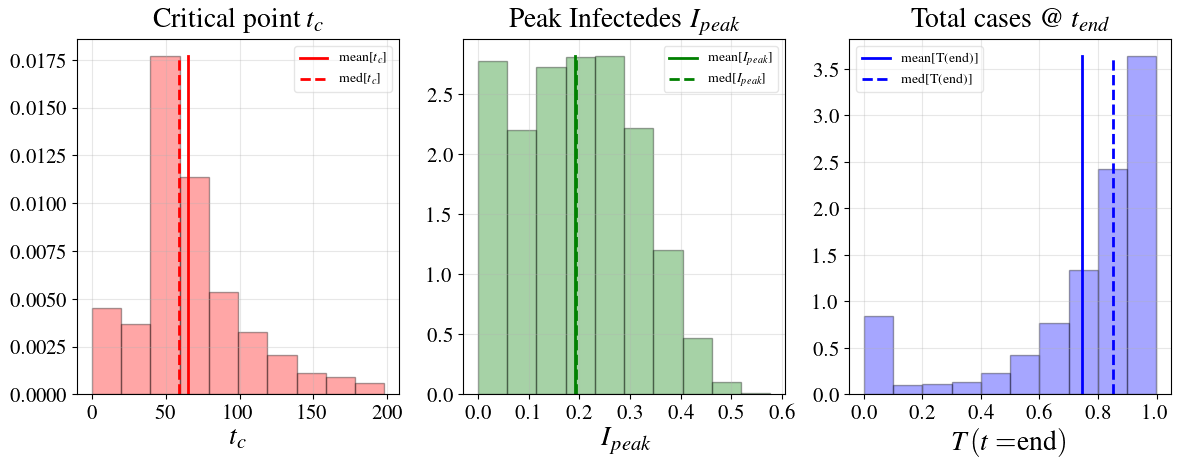
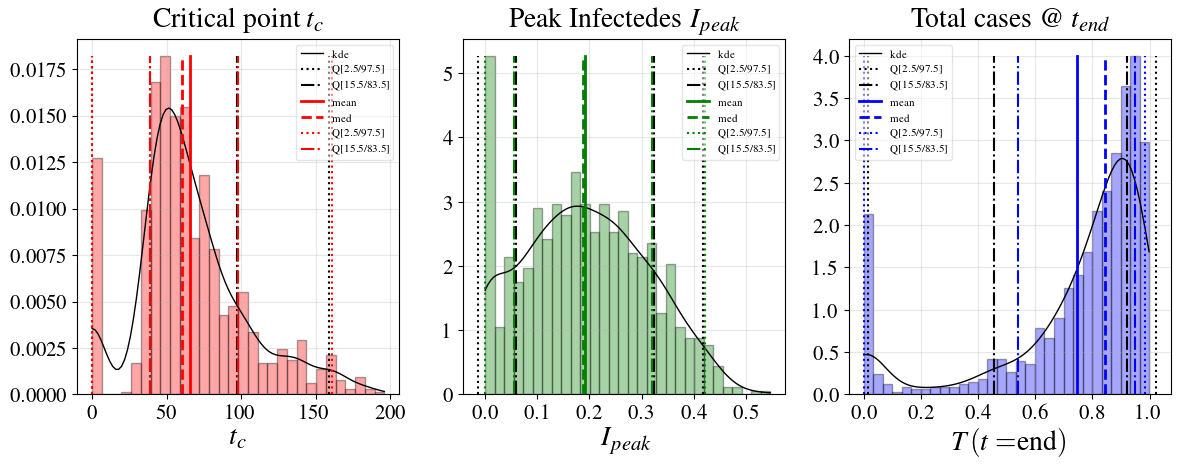
implememted hyperplane similarities to measure effect of params on outcomes

diff --git a/epimodels/plots.py b/epimodels/plots.py
@@ -18,6 +18,7 @@ rc('text', usetex=True)
 
 import statsmodels.api       as sm
 from statsmodels.formula.api import ols
+import pandas as pd
 from   epimodels.utils import *
 
 
@@ -282,44 +283,26 @@ def plotCriticalPointsStats(SIR_params, CO_samples, **kwargs):
         t_Ipeak = Ipeak_samples[:,0]
         t_Tend = Tend_samples[:,0]
 
-        # Masked tc point samples for 95% of outcomes
-        do_95 = 1
-        if do_95:
-            idx_tc       = np.nonzero(np.logical_and(t_tc > tc_kde_lower95, t_tc < tc_kde_upper95))
-            masked_tc    = t_tc[idx_tc]
-            idx_Ipeak    = np.nonzero(np.logical_and(t_Ipeak > Ipeak_kde_lower95, t_Ipeak < Ipeak_kde_upper95))
-            masked_Ipeak = t_Ipeak[idx_Ipeak]
-            idx_Tend     = np.nonzero(np.logical_and(t_Tend > Tend_kde_lower95, t_Tend < Tend_kde_upper95))
-            masked_Tend  = t_Tend[idx_Tend]
-        else:
-            # Masked tc point samples for 68% of outcomes
-            idx_tc       = np.nonzero(np.logical_and(t_tc > tc_kde_lower68, t_tc < tc_kde_upper68))
-            masked_tc    = t_tc[idx_tc]
-            idx_Ipeak    = np.nonzero(np.logical_and(t_Ipeak > Ipeak_kde_lower68, t_Ipeak < Ipeak_kde_upper68))
-            masked_Ipeak = t_Ipeak[idx_Ipeak]
-            idx_Tend     = np.nonzero(np.logical_and(t_Tend > Tend_kde_lower68, t_Tend < Tend_kde_upper68))
-            masked_Tend  = t_Tend[idx_Tend]
-        
-        # Contour plots of 2D gaussian kde Param distribution with R0 Samples
-        # Find regressive model
-        x = beta_samples; y = gamma_inv_samples; z = R0_samples
-        X = x.flatten()
-        Y = y.flatten()
-        Z = z.flatten()
-        data = pandas.DataFrame({'x': X, 'y': Y, 'z': Z})
-        # Fit the model
-        model = ols("z ~ x + y", data).fit()
-        # Print the summary
-        print(model.summary())
-        print("\nRetrieving manually the parameter estimates:")
-        print(model._results.params)
-
+        # Learn linear regressor between params and R0
+        from sklearn import linear_model
+        regr = linear_model.LinearRegression()
+        X = SIR_params; Y = R0_samples
+        regr.fit(X, Y)
+        dim, N = positions.shape
+        Y = np.empty([1,N])
+        for ii in range(N):
+            y_regr =  regr.predict([[positions[0,ii],positions[1,ii]]])
+            Y[0,ii]  = y_regr[0]
+        f_R0 = np.reshape(Y.T, xx.shape)
+        print('R0 Coeff:', regr.coef_, 'R0 Intercept:', regr.intercept_)
+        print('R0 min/max=',np.min(R0_samples), np.max(R0_samples))
 
         fig00, ax00 = plt.subplots()     
-        cset = ax00.contour(xx, yy, f, colors='k', alpha = 0.9)
+        cset = ax00.contour(xx, yy, f, colors='k', levels = 10, alpha = 0.75)
         ax00.clabel(cset, inline=1, fontsize=10)        
-        cax = ax00.scatter(beta_samples, gamma_inv_samples, c=R0_samples,  cmap='tab20c', alpha = 0.55, s= 10)
-        # cax = ax00.scatter(beta_samples, gamma_inv_samples, R0_samples, c=R0_samples,  cmap='bwr', s=5, alpha = 0.55)
+        cset = ax00.contour(xx, yy, f_R0, colors='k', levels = 10, alpha = 0.75)
+        ax00.clabel(cset, inline=1, fontsize=10)                
+        cax = ax00.scatter(beta_samples, gamma_inv_samples, c=R0_samples,  cmap='tab20c', alpha = 0.85, s= 10)
         ax00.set_xlabel(r"$\beta$", fontsize=20)
         ax00.set_ylabel(r"$\gamma^{-1}$", fontsize=20)
         for tick in ax00.xaxis.get_major_ticks():
@@ -329,8 +312,6 @@ def plotCriticalPointsStats(SIR_params, CO_samples, **kwargs):
         ax00.grid(True, alpha=0.3)
         ax00.set_title(r"Distribution of $\beta,\gamma^{-1}$ vs. $R_{0}$", fontsize=20)
         cbar = fig00.colorbar(cax, ax=ax00, orientation='vertical')
-        print('R0 min/max=',np.min(R0_samples), np.max(R0_samples))
-        num_intervals = int(np.ceil((np.max(R0_samples)-np.min(R0_samples))/0.15 ))
         cbarlabels = np.around(np.linspace(np.min(R0_samples), np.max(R0_samples), num = 20, endpoint=True),decimals=2)
         cbar.set_ticks(cbarlabels)
         cbar.set_ticklabels(cbarlabels)
@@ -338,10 +319,57 @@ def plotCriticalPointsStats(SIR_params, CO_samples, **kwargs):
         # fig00.tight_layout()
         fig00.set_size_inches(29/2 * 0.35, 9/2, forward=True)
 
+
+        # Masked point samples for 95% of outcomes
+        mask_type = '95'
+        if mask_type == '95':
+            do_95 = 1
+            idx_tc       = np.nonzero(np.logical_and(t_tc > tc_kde_lower95, t_tc < tc_kde_upper95))
+            masked_tc    = t_tc[idx_tc]
+            idx_Ipeak    = np.nonzero(np.logical_and(t_Ipeak > Ipeak_kde_lower95, t_Ipeak < Ipeak_kde_upper95))
+            masked_Ipeak = t_Ipeak[idx_Ipeak]
+            idx_Tend     = np.nonzero(np.logical_and(t_Tend > Tend_kde_lower95, t_Tend < Tend_kde_upper95))
+            masked_Tend  = t_Tend[idx_Tend]
+
+        # Masked point samples for 68% of outcomes
+        if mask_type == '68':
+            do_95 = 0            
+            idx_tc       = np.nonzero(np.logical_and(t_tc > tc_kde_lower68, t_tc < tc_kde_upper68))
+            masked_tc    = t_tc[idx_tc]
+            idx_Ipeak    = np.nonzero(np.logical_and(t_Ipeak > Ipeak_kde_lower68, t_Ipeak < Ipeak_kde_upper68))
+            masked_Ipeak = t_Ipeak[idx_Ipeak]
+            idx_Tend     = np.nonzero(np.logical_and(t_Tend > Tend_kde_lower68, t_Tend < Tend_kde_upper68))
+            masked_Tend  = t_Tend[idx_Tend]        
+
+        # Masked point samples for r0 slice
+        if mask_type == 'R0':
+            do_95        = -1            
+            idx_tc       = np.nonzero(np.logical_and(t_tc > tc_kde_lower68, t_tc < tc_kde_upper68))
+            masked_tc    = t_tc[idx_tc]
+            idx_Ipeak    = np.nonzero(np.logical_and(t_Ipeak > Ipeak_kde_lower68, t_Ipeak < Ipeak_kde_upper68))
+            masked_Ipeak = t_Ipeak[idx_Ipeak]
+            idx_Tend     = np.nonzero(np.logical_and(t_Tend > Tend_kde_lower68, t_Tend < Tend_kde_upper68))
+            masked_Tend  = t_Tend[idx_Tend]        
+
+
         # Contour plots of 2D gaussian kde Param distribution with        
+        # Learn linear regressor between params and tc
+        regr_tc = linear_model.LinearRegression()
+        X = SIR_params; Y = tc_samples
+        regr_tc.fit(X, Y)
+        dim, N = positions.shape
+        Y = np.empty([1,N])
+        for ii in range(N):
+            y_regr =  regr_tc.predict([[positions[0,ii],positions[1,ii]]])
+            Y[0,ii]  = y_regr[0]
+        f_tc = np.reshape(Y.T, xx.shape)
+        print('t_c Coeff:', regr_tc.coef_, 't_c Intercept:', regr_tc.intercept_)
+
         fig0, (ax01,ax02,ax03) = plt.subplots(1,3)        
-        cset = ax01.contour(xx, yy, f, colors='k', levels=10, alpha = 0.85)
-        ax01.clabel(cset, inline=1, fontsize=10)        
+        cset = ax01.contour(xx, yy, f, colors='darkblue', levels = 10, alpha = 0.25)
+        # ax01.clabel(cset, inline=1, fontsize=10)        
+        cset = ax01.contour(xx, yy, f_tc, colors='k', levels = 10, alpha = 0.75)
+        ax01.clabel(cset, inline=1, fontsize=10)          
         cax = ax01.scatter(x, y, c='w', edgecolor='k', alpha = 0.35, s= 10)
         cax = ax01.scatter(x[idx_tc], y[idx_tc], c=masked_tc,  cmap='RdBu', alpha = 0.35, s= 10)
         ax01.set_xlabel(r"$\beta$", fontsize=20)
@@ -356,9 +384,23 @@ def plotCriticalPointsStats(SIR_params, CO_samples, **kwargs):
         else:
             ax01.set_title(r'$ 68\% t_{c}$ Values')
         fig0.colorbar(cax, ax=ax01, shrink=0.9)
+
+
+        regr_Ipeak = linear_model.LinearRegression()
+        X = SIR_params; Y = Ipeak_samples
+        regr_Ipeak.fit(X, Y)
+        dim, N = positions.shape
+        Y = np.empty([1,N])
+        for ii in range(N):
+            y_regr =  regr_Ipeak.predict([[positions[0,ii],positions[1,ii]]])
+            Y[0,ii]  = y_regr[0]
+        f_Ipeak = np.reshape(Y.T, xx.shape)
+        print('Ipeak Coeff:', regr_Ipeak.coef_, 't_c Intercept:', regr_Ipeak.intercept_)
         
-        cset = ax02.contour(xx, yy, f, colors='k', levels=10, alpha = 0.85)
-        ax02.clabel(cset, inline=1, fontsize=10)        
+        cset = ax02.contour(xx, yy, f, colors='darkblue', levels = 10, alpha = 0.25)
+        # ax02.clabel(cset, inline=1, fontsize=10)        
+        cset = ax02.contour(xx, yy, f_Ipeak, colors='k', levels = 10, alpha = 0.75)
+        ax02.clabel(cset, inline=1, fontsize=10)          
         cax = ax02.scatter(x, y, c='w', edgecolor='k', alpha = 0.35, s= 10)
         cax = ax02.scatter(x[idx_Ipeak], y[idx_Ipeak], c=masked_Ipeak,  cmap='PiYG', alpha = 0.35, s= 10)
         ax02.set_xlabel(r"$\beta$", fontsize=20)
@@ -374,8 +416,22 @@ def plotCriticalPointsStats(SIR_params, CO_samples, **kwargs):
             ax02.set_title(r'$68\% I_{peak}$ Values')
         fig0.colorbar(cax, ax=ax02, shrink=0.9)
 
-        cset = ax03.contour(xx, yy, f, colors='k', levels=10, alpha = 0.85)
-        ax03.clabel(cset, inline=1, fontsize=10)
+
+        regr_Tend = linear_model.LinearRegression()
+        X = SIR_params; Y = Tend_samples
+        regr_Tend.fit(X, Y)
+        dim, N = positions.shape
+        Y = np.empty([1,N])
+        for ii in range(N):
+            y_regr =  regr_Tend.predict([[positions[0,ii],positions[1,ii]]])
+            Y[0,ii]  = y_regr[0]
+        f_Tend = np.reshape(Y.T, xx.shape)
+        print('Tend Coeff:', regr_Tend.coef_, 'Tend Intercept:', regr_Tend.intercept_)
+
+        cset = ax03.contour(xx, yy, f, colors='darkblue', levels = 10, alpha = 0.25)
+        # ax02.clabel(cset, inline=1, fontsize=10)        
+        cset = ax03.contour(xx, yy, f_Tend, colors='k', levels = 10, alpha = 0.75)
+        ax02.clabel(cset, inline=1, fontsize=10)          
         cax = ax03.scatter(x, y, c='w', edgecolor='k', alpha = 0.35, s= 10)
         cax = ax03.scatter(x[idx_Tend], y[idx_Tend], c=masked_Tend,  cmap='bwr', alpha = 0.35, s= 10)        
         ax03.set_xlabel(r"$\beta$", fontsize=20)
@@ -393,7 +449,40 @@ def plotCriticalPointsStats(SIR_params, CO_samples, **kwargs):
         fig0.subplots_adjust(left=.12, bottom=.14, right=.93, top=0.93)
         fig0.set_size_inches(29/2, 8/2, forward=True)
 
+        # Compute similarities (Could make this a matrix)
+        d_R0tc      = hyperplane_similarity(regr.coef_,regr.intercept_,regr_tc.coef_[0],regr_tc.intercept_[0])
+        d_R0IPeak   = hyperplane_similarity(regr.coef_,regr.intercept_,regr_Ipeak.coef_[0],regr_Ipeak.intercept_[0])
+        d_R0Tend    = hyperplane_similarity(regr.coef_,regr.intercept_,regr_Tend.coef_[0],regr_Tend.intercept_[0])
+        d_tcIpeak   = hyperplane_similarity(regr_tc.coef_[0],regr_tc.intercept_[0],regr_Ipeak.coef_[0],regr_Ipeak.intercept_[0])
+        d_tcTend    = hyperplane_similarity(regr_tc.coef_[0],regr_tc.intercept_[0],regr_Tend.coef_[0],regr_Tend.intercept_[0])
+        d_IpeakTend = hyperplane_similarity(regr_Ipeak.coef_[0],regr_Ipeak.intercept_[0],regr_Tend.coef_[0],regr_Tend.intercept_[0])
 
+        print('d_R0tc = ',d_R0tc, ' d_R0IPeak=', d_R0IPeak, ' d_R0Tend=', d_R0Tend)
+        print('d_tcIpeak = ',d_tcIpeak, ' d_tcTend=', d_tcTend, ' d_IpeakTend=', d_IpeakTend)
+
+def hyperplane_similarity(w_1,b_1,w_2,b_2):
+    """
+        Equation for Hyper-plane similarity measure 
+        https://math.stackexchange.com/questions/2124611/on-a-measure-of-similarity-between-two-hyperplanes
+    """
+    # Original version    
+    d = (np.linalg.norm(w_1)*np.linalg.norm(w_2)) - abs(np.dot(w_1, w_2)) + abs(b_1 - b_2)
+    
+    # Normalized version
+    d = 1 - abs(np.dot(w_1, w_2))/(np.linalg.norm(w_1)*np.linalg.norm(w_2)) + abs(b_1 - b_2)
+
+    # Dihedral angle (angle between two intersecting planes.. are they?)
+    n_1  = np.random.randn(2)
+    n_1 -= n_1.dot(w_1)  * w_1 / np.linalg.norm(w_1)**2
+    n_1 /= np.linalg.norm(n_1)
+    
+    n_2  = np.random.randn(2)
+    n_2 -= n_2.dot(w_2)  * w_2 / np.linalg.norm(w_2)**2
+    n_2 /= np.linalg.norm(n_2)
+    
+    d_ = math.acos(abs(np.dot(n_1,n_2))/abs(np.linalg.norm(n_1) * np.linalg.norm(n_2)))
+    print(d_)
+    return d
 
 def plotInfected_evolution(Ivariables, Plotoptions, **kwargs):
     # Unpacking variables

diff --git a/epimodels/stochastic_sir.py b/epimodels/stochastic_sir.py
@@ -78,7 +78,7 @@ class StochasticSIR():
             gamma_inv_std   = prob_params[5]
             
             # Sample from Gaussian Distributions
-            beta_dist  = stats.norm(loc = beta_mean, scale = beta_std)
+            beta_dist       = stats.norm(loc = beta_mean, scale = beta_std)
             gamma_inv_dist  = stats.norm(loc = gamma_inv_mean, scale = gamma_inv_std)
 
 
@@ -114,7 +114,8 @@ class StochasticSIR():
         if isinstance(self.beta_dist, stats._distn_infrastructure.rv_frozen):
             beta = 0
             while beta < 0.1:
-                beta = self.beta_dist.rvs(1)[0]             
+                beta = self.beta_dist.rvs(1)[0]     
+
             samples['beta'] = beta
         else:
             samples['beta'] = self.beta_dist.rvs(1)[0]            
@@ -123,6 +124,7 @@ class StochasticSIR():
             gamma_inv = 0
             while gamma_inv < 2:
                 gamma_inv = self.gamma_inv_dist.rvs(1)[0]
+
             samples['gamma'] = 1/gamma_inv
         else:
             samples['gamma'] = 1/self.gamma_inv_dist.rvs(1)[0]

diff --git a/ex1c_sensitivitySampling_vanillaSIR_model.py b/ex1c_sensitivitySampling_vanillaSIR_model.py
@@ -103,7 +103,7 @@ def run(prob_type = 'gamma'):
         gamma     --> loc, shape (k), scale (theta)        
         log-Normal --> mean, std
     '''    
-    rollouts  = pow(10,4)  
+    rollouts  = pow(10,3)  
     viz_plots = 1
     
     # for test_num in range(3):
@@ -124,4 +124,4 @@ if __name__ == '__main__':
         gamma, log-Normal (proper distributions)
         gaussian, uniform (not adequate for beta or gamma_{-1})
     """
-    run(prob_type = 'log-normal')
+    run(prob_type = 'gamma')
